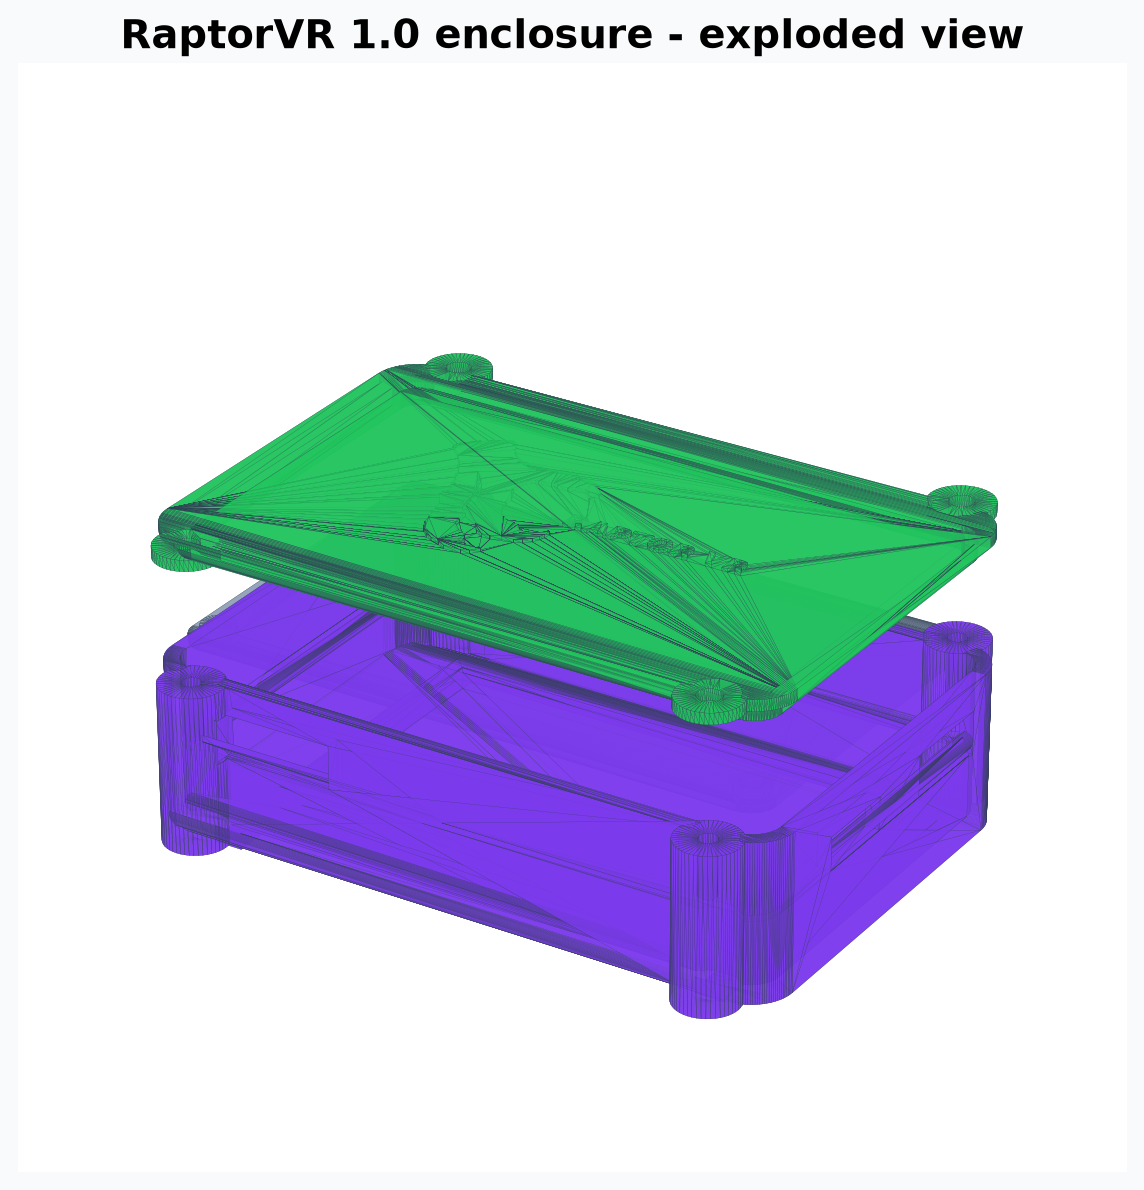
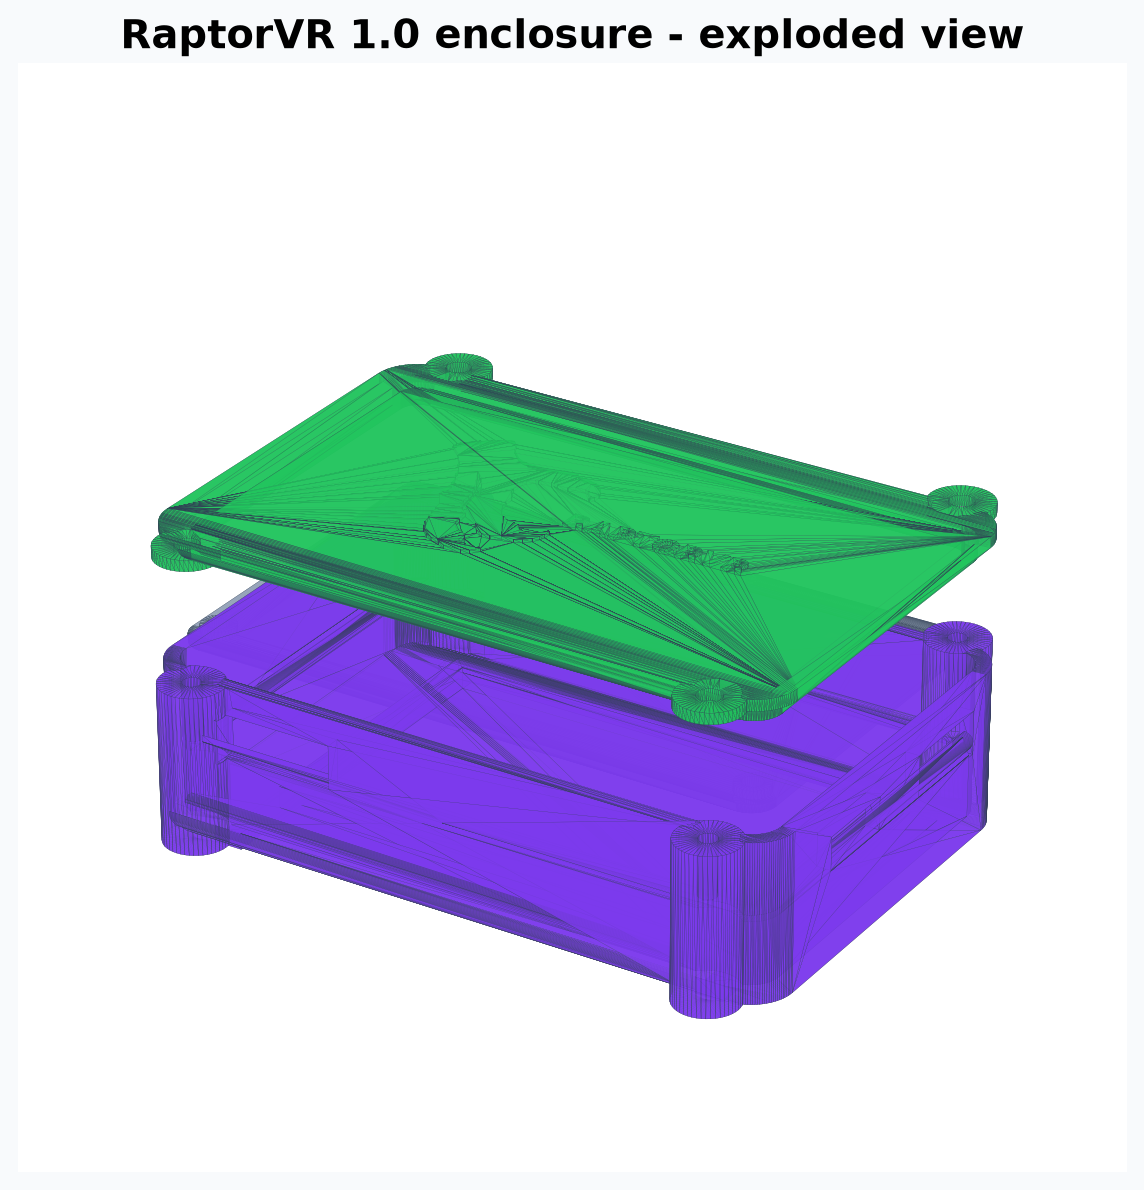
Remove space from RaptorVR lid text

Changed region(s): [[0.4895, 0.4042, 0.8566, 0.5597]]

diff --git a/hardware/pcb/source/generate_project.py b/hardware/pcb/source/generate_project.py
@@ -711,7 +711,7 @@ def schematic_drawing():
     ax.plot([13.02, 13.38], [5.76, 5.76], color="#334155", lw=2)
     ax.plot([13.10, 13.30], [5.68, 5.68], color="#334155", lw=2)
     ax.text(8.0, 9.45, "RaptorVR 1.0 - ESP32 + MuMo Carrier", ha="center", fontsize=22, weight="bold", color="#4c1d95")
-    ax.text(8.0, 9.05, "Functional schematic and assembly map - revision 0.7 prototype", ha="center", fontsize=10, color="#475569")
+    ax.text(8.0, 9.05, "Functional schematic and assembly map - revision 0.8 prototype", ha="center", fontsize=10, color="#475569")
     ax.text(8.0, 0.35, "WARNING: verify every connection with a multimeter before attaching a LiPo. Never reverse BAT+ and BAT-.", ha="center", fontsize=9, color="#b91c1c", weight="bold")
     fig.tight_layout()
     fig.savefig(SCHEMATIC / "RaptorVR_1_0_schematic.pdf", bbox_inches="tight")
@@ -815,7 +815,7 @@ def centered_logo_geometry():
     )
 
     # A bold condensed face stays legible with a 0.4 mm nozzle while keeping
-    # the requested lettering visually secondary. RAPTOR VR sits on one line
+    # the requested lettering visually secondary. RAPTORVR sits on one line
     # inside the open grip.
     font = FontProperties(family="DejaVu Sans", weight="bold", stretch="condensed")
     def make_text(label, target_width, center_x, bottom_y):
@@ -839,7 +839,7 @@ def centered_logo_geometry():
             yoff=bottom_y - min_y,
         )
 
-    text_geometry = make_text("RAPTOR VR", 26.0, 58.0, 28.0)
+    text_geometry = make_text("RAPTORVR", 26.0, 58.0, 28.0)
     return mark, text_geometry
 
 
@@ -1053,7 +1053,7 @@ def validate_design(pads, npth, tracks, vias, meshes):
         "relief_mm": 0.6,
         "raptor_mark_height_mm": 30.0,
         "raptor_vr_text_width_mm": 26.0,
-        "layout": "RAPTOR VR on one line inside the raptor grip",
+        "layout": "RAPTORVR with no space on one line inside the raptor grip",
         "minimum_recommended_nozzle_mm": 0.4,
     }
     report["checks"]["battery_pocket_mm"] = [64.0, 42.0, 12.0]
@@ -1080,7 +1080,7 @@ RaptorVR 1.0 is a **prototype** SlimeVR carrier and enclosure for the **ELEGOO E
 
 ## Important status
 
-This package passed automated geometry, copper-clearance, Gerber-parsing, and watertight-mesh checks. It has **not** been fabricated or electrically bench-tested. Treat revision 0.7 as a prototype and inspect it in a Gerber viewer before ordering.
+This package passed automated geometry, copper-clearance, Gerber-parsing, and watertight-mesh checks. It has **not** been fabricated or electrically bench-tested. Treat revision 0.8 as a prototype and inspect it in a Gerber viewer before ordering.
 
 ## Supported parts
 
@@ -1138,7 +1138,7 @@ Creality Print can import the STL files in `hardware/enclosure/`:
 - `RaptorVR_1_0_battery_separator_tray`: full insulating barrier between the LiPo and PCB, with PCB standoffs and a small wire slot.
 - `RaptorVR_1_0_screw_lid_M3`: positively retained lid with four 3.4 mm M3 clearance holes, a 0.20 mm-per-side alignment plug, and the centered raised RaptorVR logo.
 
-The supplied raptor mark is embossed 0.6 mm above the lid. The 30 mm-tall hand sits to the left and visually grips a restrained, 26 mm-wide `RAPTOR VR` line. For a contrasting logo, add a filament change for the final three 0.20 mm layers; a single-color print also works.
+The supplied raptor mark is embossed 0.6 mm above the lid. The 30 mm-tall hand sits to the left and visually grips a restrained, 26 mm-wide `RAPTORVR` line with no space. For a contrasting logo, add a filament change for the final three 0.20 mm layers; a single-color print also works.
 
 Use four **M3 x 10 mm thread-forming/self-tapping pan-head screws for plastic**. The case has 2.6 mm blind pilot holes, so the screw tips cannot reach the PCB or battery. Tighten only until the lid is seated; overtightening can strip printed threads. Do not use screws longer than 10 mm unless you first verify the remaining boss depth.
 
@@ -1230,7 +1230,7 @@ def main():
     (source_assets / "RaptorVR_logo_reference.png").write_bytes(LOGO_PNG_BYTES)
     design = {
         "name": "RaptorVR 1.0",
-        "revision": "0.7-prototype-single-line-logo-text",
+        "revision": "0.8-prototype-no-space-logo-text",
         "board_mm": [BOARD_W, BOARD_H, 1.0],
         "components": [{"ref": c.ref, "value": c.value, "outline": c.outline} for c in components],
         "pads": [p.__dict__ for p in pads],

diff --git a/README.md b/README.md
@@ -10,7 +10,7 @@ RaptorVR 1.0 is a **prototype** SlimeVR carrier and enclosure for the **ELEGOO E
 
 ## Important status
 
-This package passed automated geometry, copper-clearance, Gerber-parsing, and watertight-mesh checks. It has **not** been fabricated or electrically bench-tested. Treat revision 0.7 as a prototype and inspect it in a Gerber viewer before ordering.
+This package passed automated geometry, copper-clearance, Gerber-parsing, and watertight-mesh checks. It has **not** been fabricated or electrically bench-tested. Treat revision 0.8 as a prototype and inspect it in a Gerber viewer before ordering.
 
 ## Supported parts
 
@@ -68,7 +68,7 @@ Creality Print can import the STL files in `hardware/enclosure/`:
 - `RaptorVR_1_0_battery_separator_tray`: full insulating barrier between the LiPo and PCB, with PCB standoffs and a small wire slot.
 - `RaptorVR_1_0_screw_lid_M3`: positively retained lid with four 3.4 mm M3 clearance holes, a 0.20 mm-per-side alignment plug, and the centered raised RaptorVR logo.
 
-The supplied raptor mark is embossed 0.6 mm above the lid. The 30 mm-tall hand sits to the left and visually grips a restrained, 26 mm-wide `RAPTOR VR` line. For a contrasting logo, add a filament change for the final three 0.20 mm layers; a single-color print also works.
+The supplied raptor mark is embossed 0.6 mm above the lid. The 30 mm-tall hand sits to the left and visually grips a restrained, 26 mm-wide `RAPTORVR` line with no space. For a contrasting logo, add a filament change for the final three 0.20 mm layers; a single-color print also works.
 
 Use four **M3 x 10 mm thread-forming/self-tapping pan-head screws for plastic**. The case has 2.6 mm blind pilot holes, so the screw tips cannot reach the PCB or battery. Tighten only until the lid is seated; overtightening can strip printed threads. Do not use screws longer than 10 mm unless you first verify the remaining boss depth.
 
